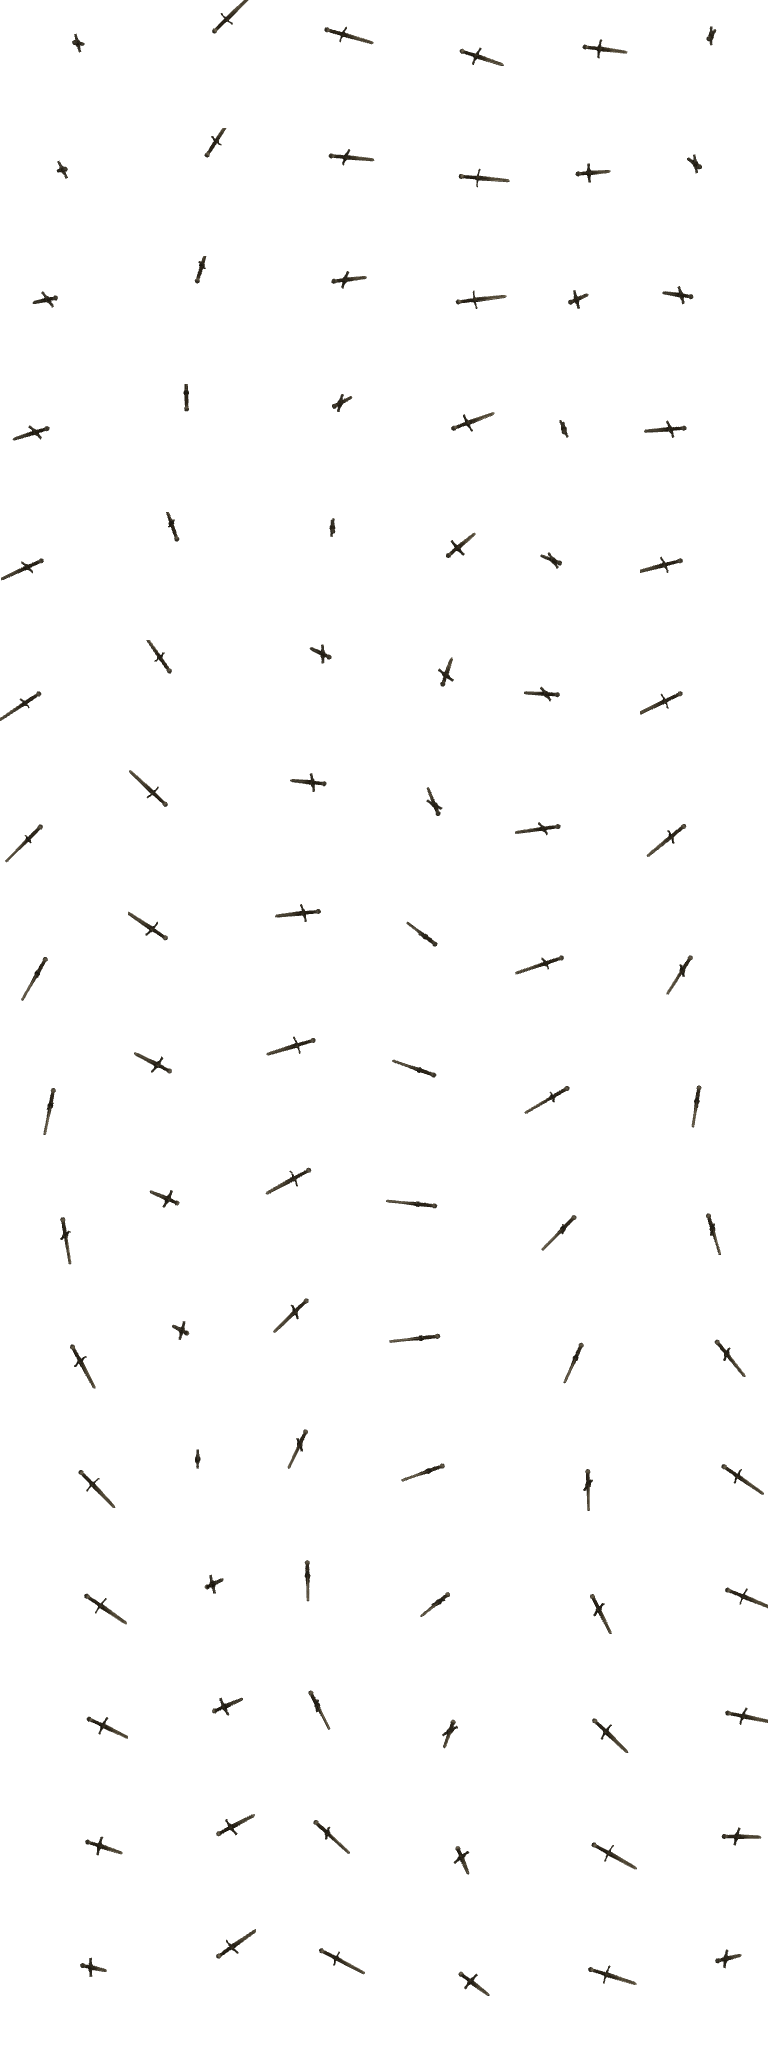
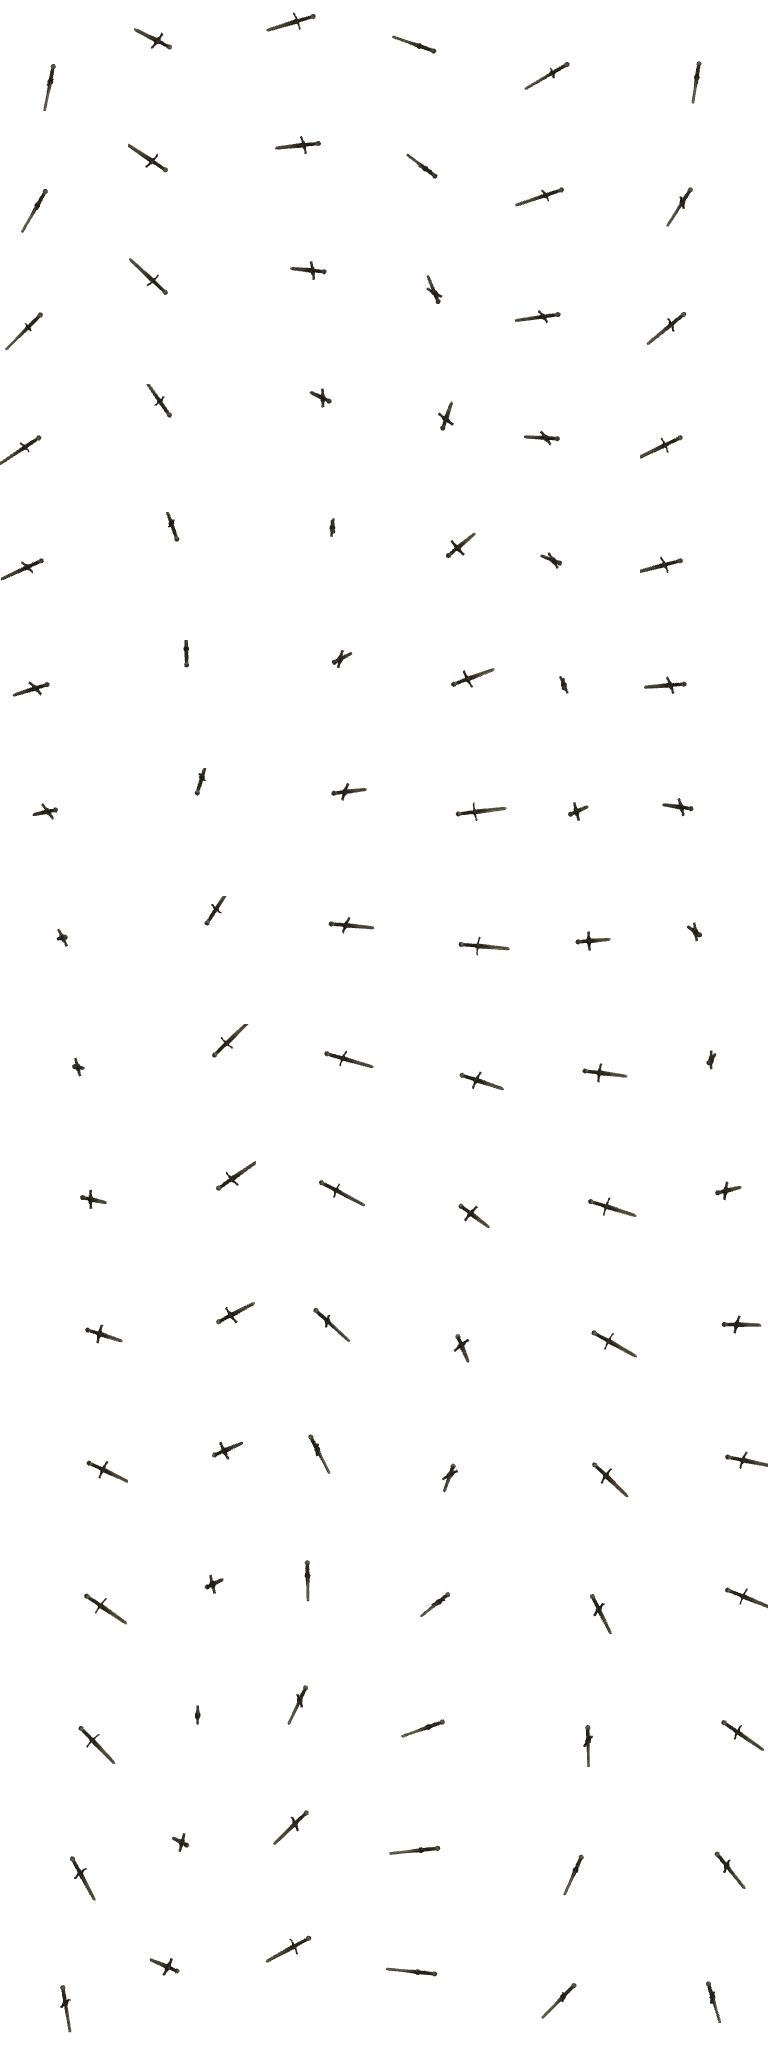
fix: 대기 모션 교체(Idle_02)·방향 매핑 근본 재캘리브레이션
기존 Idle(0)은 좌우로 몸을 트는 두리번 모션 — 루트 회전이 방향 검증을
오염시켜 좌우 미러 매핑이 숨어 있었다. 애니메이션 없는 정적 리깅 모델로
기준점을 실측(yaw = π/2 - 화면각)하고 땜질 보정 상수를 제거.

diff --git a/tools/preview3d.html b/tools/preview3d.html
@@ -149,10 +149,12 @@
       // 스프라이트 시트 캡처: 4방향(행) × N프레임(열) 그리드.
       // pass='char'는 무기 숨김, pass='weapon'은 캐릭터 메시 숨김(본은 계속 갱신됨).
       // 반환: PNG dataURL — 게임에서 두 시트를 같은 프레임 인덱스로 겹쳐 그린다(무기 교체 설계).
-      // 행 i = 화면 각도 i*(2π/dirs) (0=오른쪽, 시계방향). 실측: yaw = 화면각 - π/2
+      // 행 i = 화면 각도 i*(2π/dirs) (0=오른쪽, y-아래 좌표계).
+      // 정적 리깅 모델 캘리브레이션 실측(2026-08-01): yaw = π/2 - 화면각
+      // (three.js 월드는 y-업이라 화면 좌표계와 회전 방향이 반대 — 이전 공식은 좌우 미러였음)
       window.__captureSheet = (frames = 6, cell = 128, pass = 'char', dirs = 16) => {
         const step = (Math.PI * 2) / dirs;
-        const DIR_YAWS = Array.from({ length: dirs }, (_, i) => i * step - Math.PI / 2);
+        const DIR_YAWS = Array.from({ length: dirs }, (_, i) => Math.PI / 2 - i * step);
         const model = pivot.children[0];
         const meshes = [];
         model.traverse((o) => {

diff --git a/src/render/anim.ts b/src/render/anim.ts
@@ -14,10 +14,10 @@ export const CLIPS: Record<ClipName, { frames: number; fps: number; loop: boolea
 };
 
 // facing(라디안, y축 아래 양수, 0=오른쪽) → 방향 행 (가장 가까운 22.5° 스텝)
-// +DIR_ROWS/2: 시트 yaw 기준과 화면 기준의 180° 위상차 실측 보정 (사용자 플레이 검증)
+// 시트 캡처가 정적 모델 캘리브레이션 기준으로 수정되어 보정 상수 불필요
 export function dirFromAngle(a: number): number {
   const step = (Math.PI * 2) / DIR_ROWS;
-  return ((Math.round(a / step) + DIR_ROWS / 2) % DIR_ROWS + DIR_ROWS) % DIR_ROWS;
+  return ((Math.round(a / step) % DIR_ROWS) + DIR_ROWS) % DIR_ROWS;
 }
 
 export interface ClipTextures {
